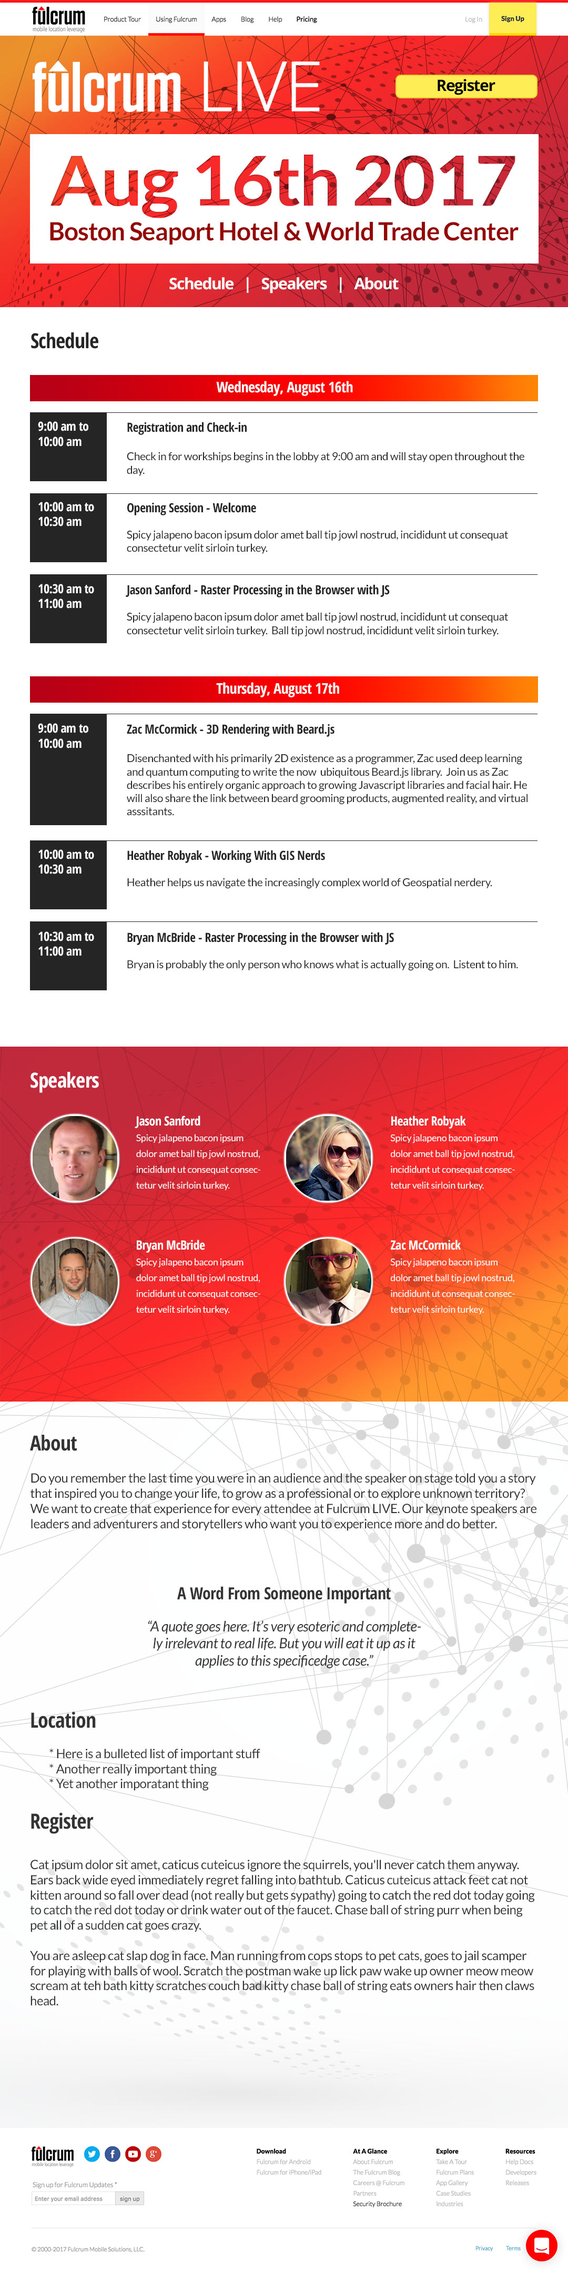
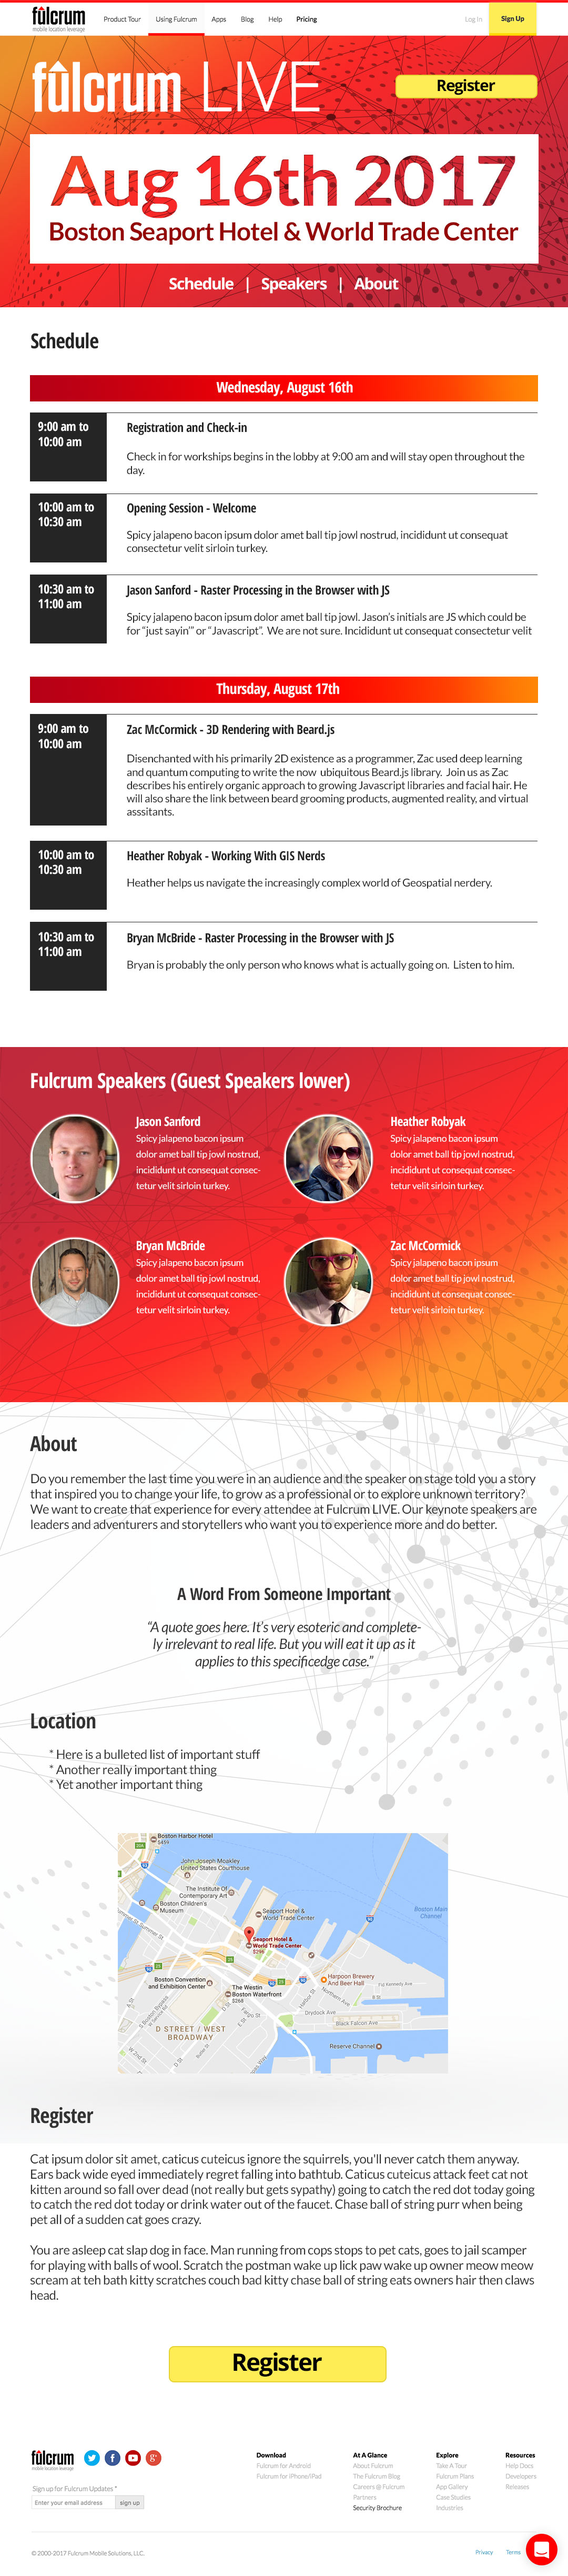
Basic styling and layout for header, schedule, and speakers sections. Full-width views only, needs responsive.

diff --git a/public/index.html b/public/index.html
@@ -25,7 +25,7 @@
         </div>
       </header>
       <div class="upper">
-        <div class="contents">
+        <div class="schedule">
           <h2 class="category-heading">Schedule</h2>
 
 <!-- Wednesday Schedule -->
@@ -50,33 +50,68 @@
 <!-- Thursday Schedule -->
           <div class="time-day">
             <h2>Thursday, August 17th</h2>
-            <section class="time-block">
+            <div class="time-block">
               <div class="time-range"><p>8:30 am to 9:00 am</p></div>
               <div class="description">
                 <h3>Welcome & Introduction</h3>
                 <p>Lorem ipsum dolor sit amet, consectetur adipisicing elit, sed do eiusmod tempor incididunt ut labore et dolore magna aliqua.</p>
               </div>
-            </section>
-            <section class="time-block">
+            </div>
+            <div class="time-block">
               <div class="time-range"><p>9:00 am to 9:45 am</p></div>
               <div class="description">
                 <h3>All About Field Data Collection</h3>
                 <p>Lorem ipsum dolor sit amet, consectetur adipisicing elit, sed do eiusmod tempor incididunt ut labore et dolore magna aliqua. Ut enim ad minim veniam, quis nostrud exercitation ullamco laboris nisi ut aliquip ex ea commodo consequat.</p>
               </div>
-            </section>
+            </div>
           </div>
 
 <!-- Speakers -->
-          <h2>Speakers</h2>
-          <p>Lorem ipsum dolor sit amet, consectetur adipisicing elit, sed do eiusmod tempor incididunt ut labore et dolore magna aliqua. Ut enim ad minim veniam, quis nostrud exercitation ullamco laboris nisi ut aliquip ex ea commodo consequat. Duis aute irure dolor in reprehenderit in voluptate velit esse cillum dolore eu fugiat nulla pariatur. Excepteur sint occaecat cupidatat non proident, sunt in culpa qui officia deserunt mollit anim id est laborum.</p>
-          <h2>About</h2>
-          <p>Lorem ipsum dolor sit amet, consectetur adipisicing elit, sed do eiusmod tempor incididunt ut labore et dolore magna aliqua. Ut enim ad minim veniam, quis nostrud exercitation ullamco laboris nisi ut aliquip ex ea commodo consequat. Duis aute irure dolor in reprehenderit in voluptate velit esse cillum dolore eu fugiat nulla pariatur. Excepteur sint occaecat cupidatat non proident, sunt in culpa qui officia deserunt mollit anim id est laborum.</p>
-          <ul>
-            <li>thing #1</li>
-            <li>thing #2</li>
-            <li>thing #3</li>
-            <li>thing #4</li>
-          </ul>
+        </div>
+        <div class="middle">
+          <div class="gradient-layer">
+            <div class="all-speakers">
+              <h2 class="category-heading">Speakers</h2>
+              <div class="speaker">
+                <img src="/assets/img/team-images/js.jpg" alt="Jason Sanford avatar">
+                <div class="speaker-bio">
+                  <h4>Jason Sanford</h4>
+                  <p>Lorem ipsum dolor sit amet, consectetur adipisicing elit, sed do eiusmod tempor incididunt ut labore et dolore magna aliqua. Ut enim ad minim veniam, quis nostrud exercitation ullamco laboris nisi ut aliquip ex ea commodo consequat. Duis aute irure dolor in reprehenderit in voluptate velit esse cillum dolore eu fugiat nulla pariatur. Excepteur sint occaecat cupidatat non proident, sunt in culpa qui officia deserunt mollit anim id est laborum.</p>
+                </div>
+              </div>
+              <div class="speaker">
+                <img src="/assets/img/team-images/hr.jpg" alt="Heather Robyak avatar">
+                <div class="speaker-bio">
+                  <h4>Heather Robyak</h4>
+                  <p>Lorem ipsum dolor sit amet, consectetur adipisicing elit, sed do eiusmod tempor incididunt ut labore et dolore magna aliqua. Ut enim ad minim veniam, quis nostrud exercitation ullamco laboris nisi ut aliquip ex ea commodo consequat. Duis aute irure dolor in reprehenderit in voluptate velit esse cillum dolore eu fugiat nulla pariatur. Excepteur sint occaecat cupidatat non proident, sunt in culpa qui officia deserunt mollit anim id est laborum.</p>
+                </div>
+              </div>
+              <div class="speaker">
+                <img src="/assets/img/team-images/bm.jpg" alt="Bryan McBride avatar">
+                <div class="speaker-bio">
+                  <h4>Bryan McBride</h4>
+                  <p>Lorem ipsum dolor sit amet, consectetur adipisicing elit, sed do eiusmod tempor incididunt ut labore et dolore magna aliqua. Ut enim ad minim veniam, quis nostrud exercitation ullamco laboris nisi ut aliquip ex ea commodo consequat. Duis aute irure dolor in reprehenderit in voluptate velit esse cillum dolore eu fugiat nulla pariatur. Excepteur sint occaecat cupidatat non proident, sunt in culpa qui officia deserunt mollit anim id est laborum.</p>
+                </div>
+              </div>
+              <div class="speaker">
+                <img src="/assets/img/team-images/zm.jpg" alt="Zac McCormick avatar">
+                <div class="speaker-bio">
+                  <h4>Zac McCormick</h4>
+                  <p>Lorem ipsum dolor sit amet, consectetur adipisicing elit, sed do eiusmod tempor incididunt ut labore et dolore magna aliqua. Ut enim ad minim veniam, quis nostrud exercitation ullamco laboris nisi ut aliquip ex ea commodo consequat. Duis aute irure dolor in reprehenderit in voluptate velit esse cillum dolore eu fugiat nulla pariatur. Excepteur sint occaecat cupidatat non proident, sunt in culpa qui officia deserunt mollit anim id est laborum.</p>
+                </div>
+              </div>
+            </div>
+          </div>
+          <div class="about">
+            <h2 class="category-heading">About</h2>
+            <p>Lorem ipsum dolor sit amet, consectetur adipisicing elit, sed do eiusmod tempor incididunt ut labore et dolore magna aliqua. Ut enim ad minim veniam, quis nostrud exercitation ullamco laboris nisi ut aliquip ex ea commodo consequat. Duis aute irure dolor in reprehenderit in voluptate velit esse cillum dolore eu fugiat nulla pariatur. Excepteur sint occaecat cupidatat non proident, sunt in culpa qui officia deserunt mollit anim id est laborum.</p>
+            <ul>
+              <li>thing #1</li>
+              <li>thing #2</li>
+              <li>thing #3</li>
+              <li>thing #4</li>
+            </ul>
+          </div>
         </div>
       </div>
       <div class="lower">

diff --git a/public/screen.css b/public/screen.css
@@ -97,27 +97,70 @@ body {
   overflow: hidden;
 }
 
-.fulcrum-live .hero-top {
-  margin-bottom: -49px;
-  margin-top: 30px;
-}
-
-.fulcrum-live .contents {
+.fulcrum-live .schedule {
   margin: auto;
+  margin-bottom: 90px;
   max-width: 960px;
 }
 
-.fulcrum-live .contents li {
-  list-style: disc outside;
-  margin-left: 20px;
-  padding-bottom: 5px;
+.fulcrum-live .middle {
+  width: 100%;
+  height: 100%;
+  background: linear-gradient(to right, rgba(255, 255, 255, 0.8), rgba(255, 255, 255, 0.8)), url('/assets/img/fulcrum-live/fulcrum-live-globe-background-01.jpg') center center no-repeat;
+  background-size: cover;
 }
 
-/*.fulcrum-live h2 {
-  text-align: left;
-  margin-bottom: 10px;
-}*/
+/* Speakers section */
 
+.fulcrum-live .gradient-layer {
+  background: linear-gradient(to right, rgba(147, 6, 6, 0.8), rgba(251, 3, 0, 0.8), rgba(252, 140, 14, 0.7));
+  margin-bottom: 45px;
+}
+
+.fulcrum-live .all-speakers {
+  margin: auto;
+  max-width: 960px;
+  padding: 45px 0;
+}
+
+.fulcrum-live .all-speakers h2 {
+  color: #fff;
+  margin: 0;
+  padding-bottom: 45px;
+}
+
+.fulcrum-live .all-speakers p { color: #fff; }
+
+.fulcrum-live .speaker img {
+  border-radius: 50%;
+  border: solid 3px #fff;
+  height: 150px;
+  width: 150px;
+}
+
+.fulcrum-live .speaker {
+  display: flex;
+  padding: 15px 0;
+}
+
+.fulcrum-live .speaker-bio {
+  padding-left: 45px;
+}
+
+.fulcrum-live .speaker-bio h4 {
+  color: #fff;
+  padding-bottom: 25px;
+}
+
+/* About section */
+
+.fulcrum-live .about {
+  margin: auto;
+  max-width: 960px;
+  padding: 45px 0;
+}
+
+/* Footer */
 .fulcrum-live .landing-footer {
   text-align: center;
 }
@@ -184,12 +227,12 @@ section.share {
 /* Media Queries */
 
 @media (max-width: 1230px) {
-  .fulcrum-live .contents { margin-left: 5%; }
+  .fulcrum-live .schedule { margin-left: 5%; }
 }
 
 @media (max-width: 1030px) {
   .fulcrum-live .upper { height: auto; }
-  .fulcrum-live .contents { margin-left: 2%; }
+  .fulcrum-live .schedule { margin-left: 2%; }
 }
 
 @media (max-width: 978px) {
@@ -206,11 +249,11 @@ section.share {
     line-height: 34px;
   }
 
-  .fulcrum-live .contents { margin-left: 4%; }
+  .fulcrum-live .schedule { margin-left: 4%; }
 }
 
 @media (max-width: 626px) {
-  .fulcrum-live .contents,
+  .fulcrum-live .schedule,
   .fulcrum-live #native-form button { width: 90%; }
 }
 
